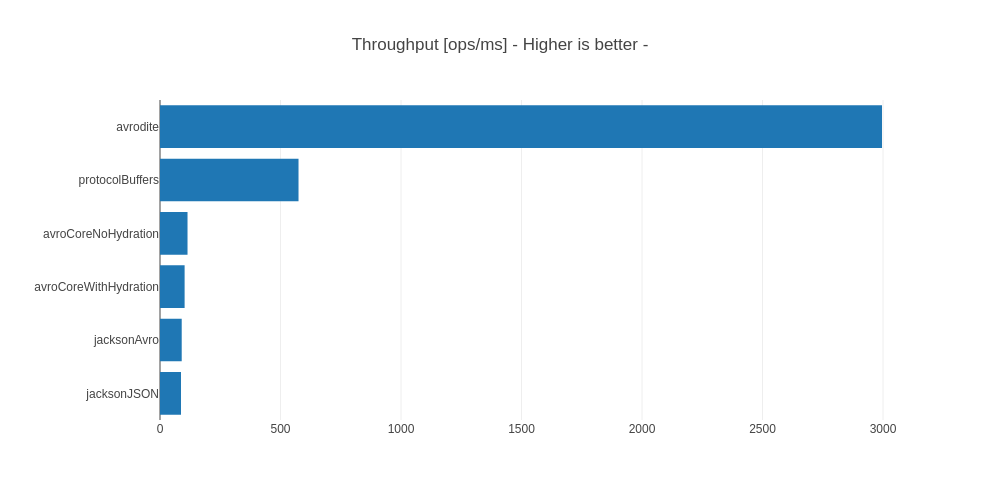
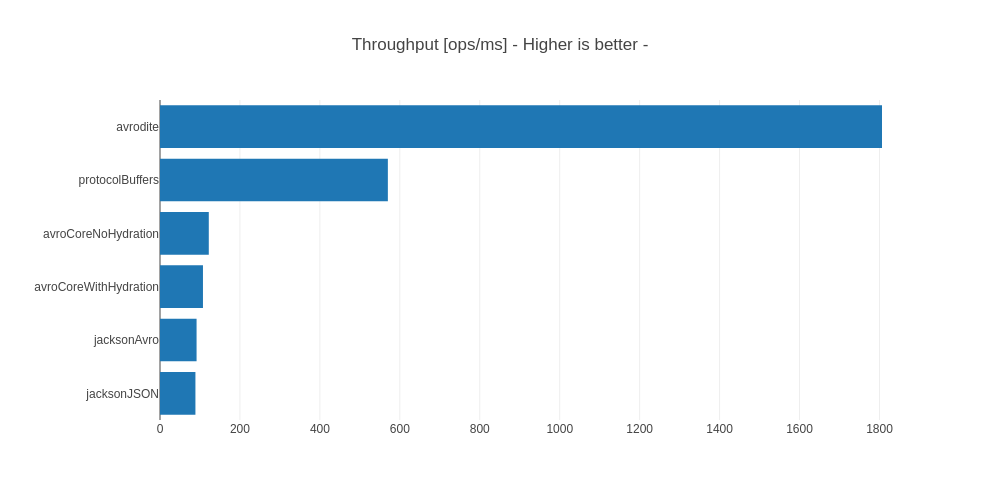
fixed typos, updated benchmarks

diff --git a/avrodite-codec-avro-benchmarks/src/test/bench-tests/org/avrodite/avro/BenchmarkModel.java b/avrodite-codec-avro-benchmarks/src/test/bench-tests/org/avrodite/avro/BenchmarkModel.java
@@ -36,7 +36,7 @@ public class BenchmarkModel {
   final ByteArrayOutputStream byteArrayOutputStream = new ByteArrayOutputStream(1024);
   final ByteArrayInputStream byteArrayInputStream;
   final AvroOutputByteBuffer bufferOut = new AvroOutputByteBuffer(new byte[1024]);
-  final AvroInputByteBuffer bufferIn = new AvroInputByteBuffer(new byte[1024]);
+  final AvroInputByteBuffer bufferIn;
   final Avrodite<AvroStandard, AvroCodec<?>> avroCodecManager;
   final Schema eventSchema;
   final Schema metaSchema;
@@ -189,6 +189,7 @@ public class BenchmarkModel {
   public BenchmarkModel(boolean nullableFields) {
     testTarget = nullableFields ? serializedModels : nonNullableSerializedModel;
     this.byteArrayInputStream = new ByteArrayInputStream(testTarget);
+    bufferIn = new AvroInputByteBuffer(testTarget);
     this.nullableFields = nullableFields;
     avroCodecManager = Avrodite.builder(AVRO_1_8)
       .include(AvroditeTools.compiler(AVRO_1_8).discover(EquityMarketPriceEvent.class.getPackage().getName())

diff --git a/avrodite-codec-avro-benchmarks/src/test/bench-tests/org/avrodite/avro/EquityEventBenchmark.java b/avrodite-codec-avro-benchmarks/src/test/bench-tests/org/avrodite/avro/EquityEventBenchmark.java
@@ -3,6 +3,7 @@ package org.avrodite.avro;
 import static java.util.Objects.requireNonNull;
 
 import java.util.ArrayList;
+import java.util.Arrays;
 import java.util.List;
 import java.util.concurrent.TimeUnit;
 import lombok.Getter;
@@ -15,6 +16,7 @@ import org.avrodite.fixtures.event.EquityMarketPriceEvent;
 import org.avrodite.fixtures.event.EquityOrder;
 import org.avrodite.fixtures.event.EventMeta;
 import org.avrodite.proto.EquityEvents;
+import org.junit.Test;
 import org.openjdk.jmh.annotations.Benchmark;
 import org.openjdk.jmh.annotations.BenchmarkMode;
 import org.openjdk.jmh.annotations.Fork;
@@ -44,7 +46,7 @@ public class EquityEventBenchmark {
   final String output;
 
   public EquityEventBenchmark() {
-    this.nullable = false;
+    this.nullable = true;
     this.model    = new BenchmarkModel(this.nullable);
     this.output   = this.nullable ? "/tmp/bench-results-nullable-fields.json": "/tmp/bench-results.json";
   }

diff --git a/README.md b/README.md
@@ -5,30 +5,32 @@ A fast, lightweight, java driven, Apache Avro serialization/deserialization libr
 
 While designing this library, the following concerns were in mind:
 
-1. To be plain JAVA objects driven: This is particularly useful for an already existing application that have a set
-of plain JAVA objects as API. We tried the avro core implementation, but the library adds and additional layer of 
-indirection/de-referencing. Moreover, the mapping between the Record objects/dictionaries and the existing api
-can quickly turn into a fastidious boilerplate to maintain.
+1. To be plain JAVA objects driven: This is particularly useful for an already existing application that 
+have a set of plain JAVA objects as API. We tried the avro core implementation, but the library adds 
+and additional layer of indirection/de-referencing. Moreover, the mapping between the Record 
+objects/dictionaries and the existing api can quickly turn into a fastidious boilerplate to maintain.
 
-2. Support for JAVA core Generics and complex types: Existing JAVA API models often leverage the typing features that
-the core language offers. We need a library that would support any type, including types with generics.
+2. Support for JAVA core Generics and complex types: Existing JAVA API models often leverage the 
+typing features that the core language offers. We need a library that would support any type, 
+including types with generics.
 
-3. To be the fastest possible: Latency is a critical requirement for modern applications and real-time event processors.
-Having a library that performs at high standards, is definitely a criteria for its use.
+3. To be the fastest possible: Latency is a critical requirement for modern applications and real-time 
+event processors. Having a library that performs at high standards, is definitely a criteria for 
+its use.
 
-4. Low memory footprint: Holding pressure from the heap by minimizing the created objects during the serialization / 
-deserialization process can contribute to the overall application SLA. We need to have lowest possible memory footprint
-and offer an API for re-using existing objects when applicable.
+4. Low memory footprint: Holding pressure from the heap by minimizing the created objects during the 
+serialization / deserialization process can contribute to the overall application SLA. We need to have 
+lowest possible memory footprint and offer an API for re-using existing objects when applicable.
 
 #### Current Status
 
-Currently the library fulfills most of its design objectives and is performing better than many widely adopted
-libraries. It has full support for Java generics and complex types (We've stress-tested it with fields of this kind
-`List<Map<String, Event<Map<String, String>, Model<A,B>>>>` and it passes). 
-From a performance perspective, it performs 5x better than its closest mate, between 10x and 30x than Avro core Record
-API.
-The project provide a MAVEN plugin that will generate the necessary classes at compile time. At runtime, the interaction 
-with Avrodite API would consist of something like so
+Currently the library fulfills most of its design objectives and is performing better than many widely 
+adopted libraries. It has full support for Java generics and complex types (We've stress-tested it with 
+fields of this kind `List<Map<String, Event<Map<String, String>, Model<A,B>>>>` and it passes). 
+From a performance perspective, it performs 3x-4x better than its closest mate, between 5x and 15x than 
+Avro core Record API.
+The project provide a MAVEN plugin that will generate the necessary classes at compile time. At runtime, 
+the interaction with Avrodite API would consist of something like so
 ```java
 //API configuration would happen in your dependency injection layer 
 Avrodite<AvroStandard, AvroCodec<?>> avrodite = AvroStandardV19.avrodite()
@@ -46,28 +48,47 @@ Schema schema = codec.getSchema();
 
 ```
 
+#### Modules description
+The library is modular and was designed with the idea of implementing other serialization
+formats (JSON for example). Currently the modules are :
+
+1. `avrodite-api`: This is the general API that projects would depends on for 
+serialization/deserialization
+2. `avrodite-codec-avro`: This is an implementation of the public API that provides AVRO support.
+3. `avrodite-tools`: This would be mainly a compile-time/build phase dependency that contains the 
+necessary logic for introspecting your beans and plain objects API. 
+4. `avrodite-tools-avro`: An `avrodite-tools` plugin that generate custom classes for the AVRO binary 
+format.
+5. `avrodite-avro-maven-plugin`: A maven plugin that abstracts away from you the `avrodite-tools` 
+stack to generate your codecs classes.
+6. `avrodite-codec-avro-benchmarks`: A test module that benchmarks the AVRO implementation against 
+other libraries.
+
+
 #### Benchmark Results Snapshot
 
 Refer to this [document](./avrodite-pages/benchmarks.md) for detailed results. 
 
-| Framework                  | T1 Throughput | T2 Throughput | T1 rel. perf. | T2 rel. perf. |
-|----------------------------|---------------|---------------|---------------|---------------|
-| Avrodite                   | 3577.84       | 3035.15       | 100.00%       | 100.00%       |
-| Protocol Buffers           | 573.60        | 588.06        | 16.03%        | 19.37%        |
-| Avro Core (No hydration)   | 505.96        | 120.07        | 14.14%        | 3.96%         |
-| Avro Core (With hydration) | 357.09        | 109.59        | 9.98%         | 3.61%         |
-| Jackson Avro               | 158.75        | 89.23         | 4.44%         | 2.94%         |
-| Jackson JSON               | 90.34         | 89.97         | 2.52%         | 2.96%         |
+| Framework                  | T1      | T1 relative Performance | T2      | T2 relative Performance |
+|----------------------------|---------|-------------------------|---------|-------------------------|
+| Avrodite                   | 2190.74 | 100.00%                 | 1806.33 | 100.00%                 |
+| Protocol Buffers           | 578.50  | 26.41%                  | 570.08  | 31.56%                  |
+| Avro Core (No hydration)   | 495.64  | 22.62%                  | 122.06  | 6.76%                   |
+| Avro Core (With hydration) | 348.06  | 15.89%                  | 107.48  | 5.95%                   |
+| Jackson Avro               | 158.93  | 7.25%                   | 91.50   | 5.07%                   |
+| Jackson JSON               | 89.37   | 4.08%                   | 88.62   | 4.91%                   |
       
 ![Alt text](./avrodite-pages/images/bench-results.json-throughput.png?raw=true "Throughput")
 
 
 #### Roadmap
-The following features
-- Support enums (easy).
-- Support for union types (can be useful when you have a supertype with various children) (easy).
+The following features are planned for the future:
+- Enums support (easy).
+- Avro Union types (can be useful when you have a supertype with various children) (easy).
 - Map API evolution to Schema migration (most likely hard).
+- Support other serialization formats: A good portion of the library (types introspection, codec compilation) can be 
+re-used to support other formats such as JSON. (average difficulty)
 
 #### Licence
-Copyright (c) 2018 Yassine Echabbi
-Licensed under the Apache License, Version 2.0 (the "License")
+Copyright (c) 2020 Yassine Echabbi
+Licensed under the Apache License, Version 2.0

diff --git a/avrodite-pages/benchmarks.md b/avrodite-pages/benchmarks.md
@@ -40,14 +40,14 @@ The tests are available under the 'avrodite-codec-avro-benchmarks'.
 
 #### Results Summary
 
-| Framework                  | T1 Throughput | T2 Throughput | T2 Throughput | T2 rel. perf. |
-|----------------------------|---------------|---------------|---------------|---------------|
-| Avrodite                   | 3577.84       | 3035.15       | 100.00%       | 100.00%       |
-| Protocol Buffers           | 573.60        | 588.06        | 16.03%        | 19.37%        |
-| Avro Core (No hydration)   | 505.96        | 120.07        | 14.14%        | 3.96%         |
-| Avro Core (With hydration) | 357.09        | 109.59        | 9.98%         | 3.61%         |
-| Jackson Avro               | 158.75        | 89.23         | 4.44%         | 2.94%         |
-| Jackson JSON               | 90.34         | 89.97         | 2.52%         | 2.96%         |
+| Framework                  | T1      | T1 relative Performance | T2      | T2 relative Performance |
+|----------------------------|---------|-------------------------|---------|-------------------------|
+| Avrodite                   | 2190.74 | 100.00%                 | 1806.33 | 100.00%                 |
+| Protocol Buffers           | 578.50  | 26.41%                  | 570.08  | 31.56%                  |
+| Avro Core (No hydration)   | 495.64  | 22.62%                  | 122.06  | 6.76%                   |
+| Avro Core (With hydration) | 348.06  | 15.89%                  | 107.48  | 5.95%                   |
+| Jackson Avro               | 158.93  | 7.25%                   | 91.50   | 5.07%                   |
+| Jackson JSON               | 89.37   | 4.08%                   | 88.62   | 4.91%                   |
 
 ##### Throughput (Test 1, Higher is better)
 ![Alt text](./images/bench-results.json-throughput.png?raw=true&v=9 "Throughput")
